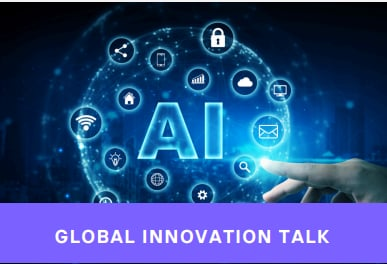
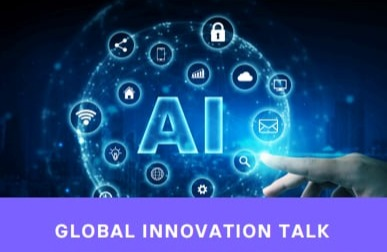
updated card images bottom border

diff --git a/postcss.config.js b/postcss.config.js
@@ -1,0 +1,5 @@
+module.exports = {
+  plugins: {
+    "@tailwindcss/postcss": {},
+  }
+}
